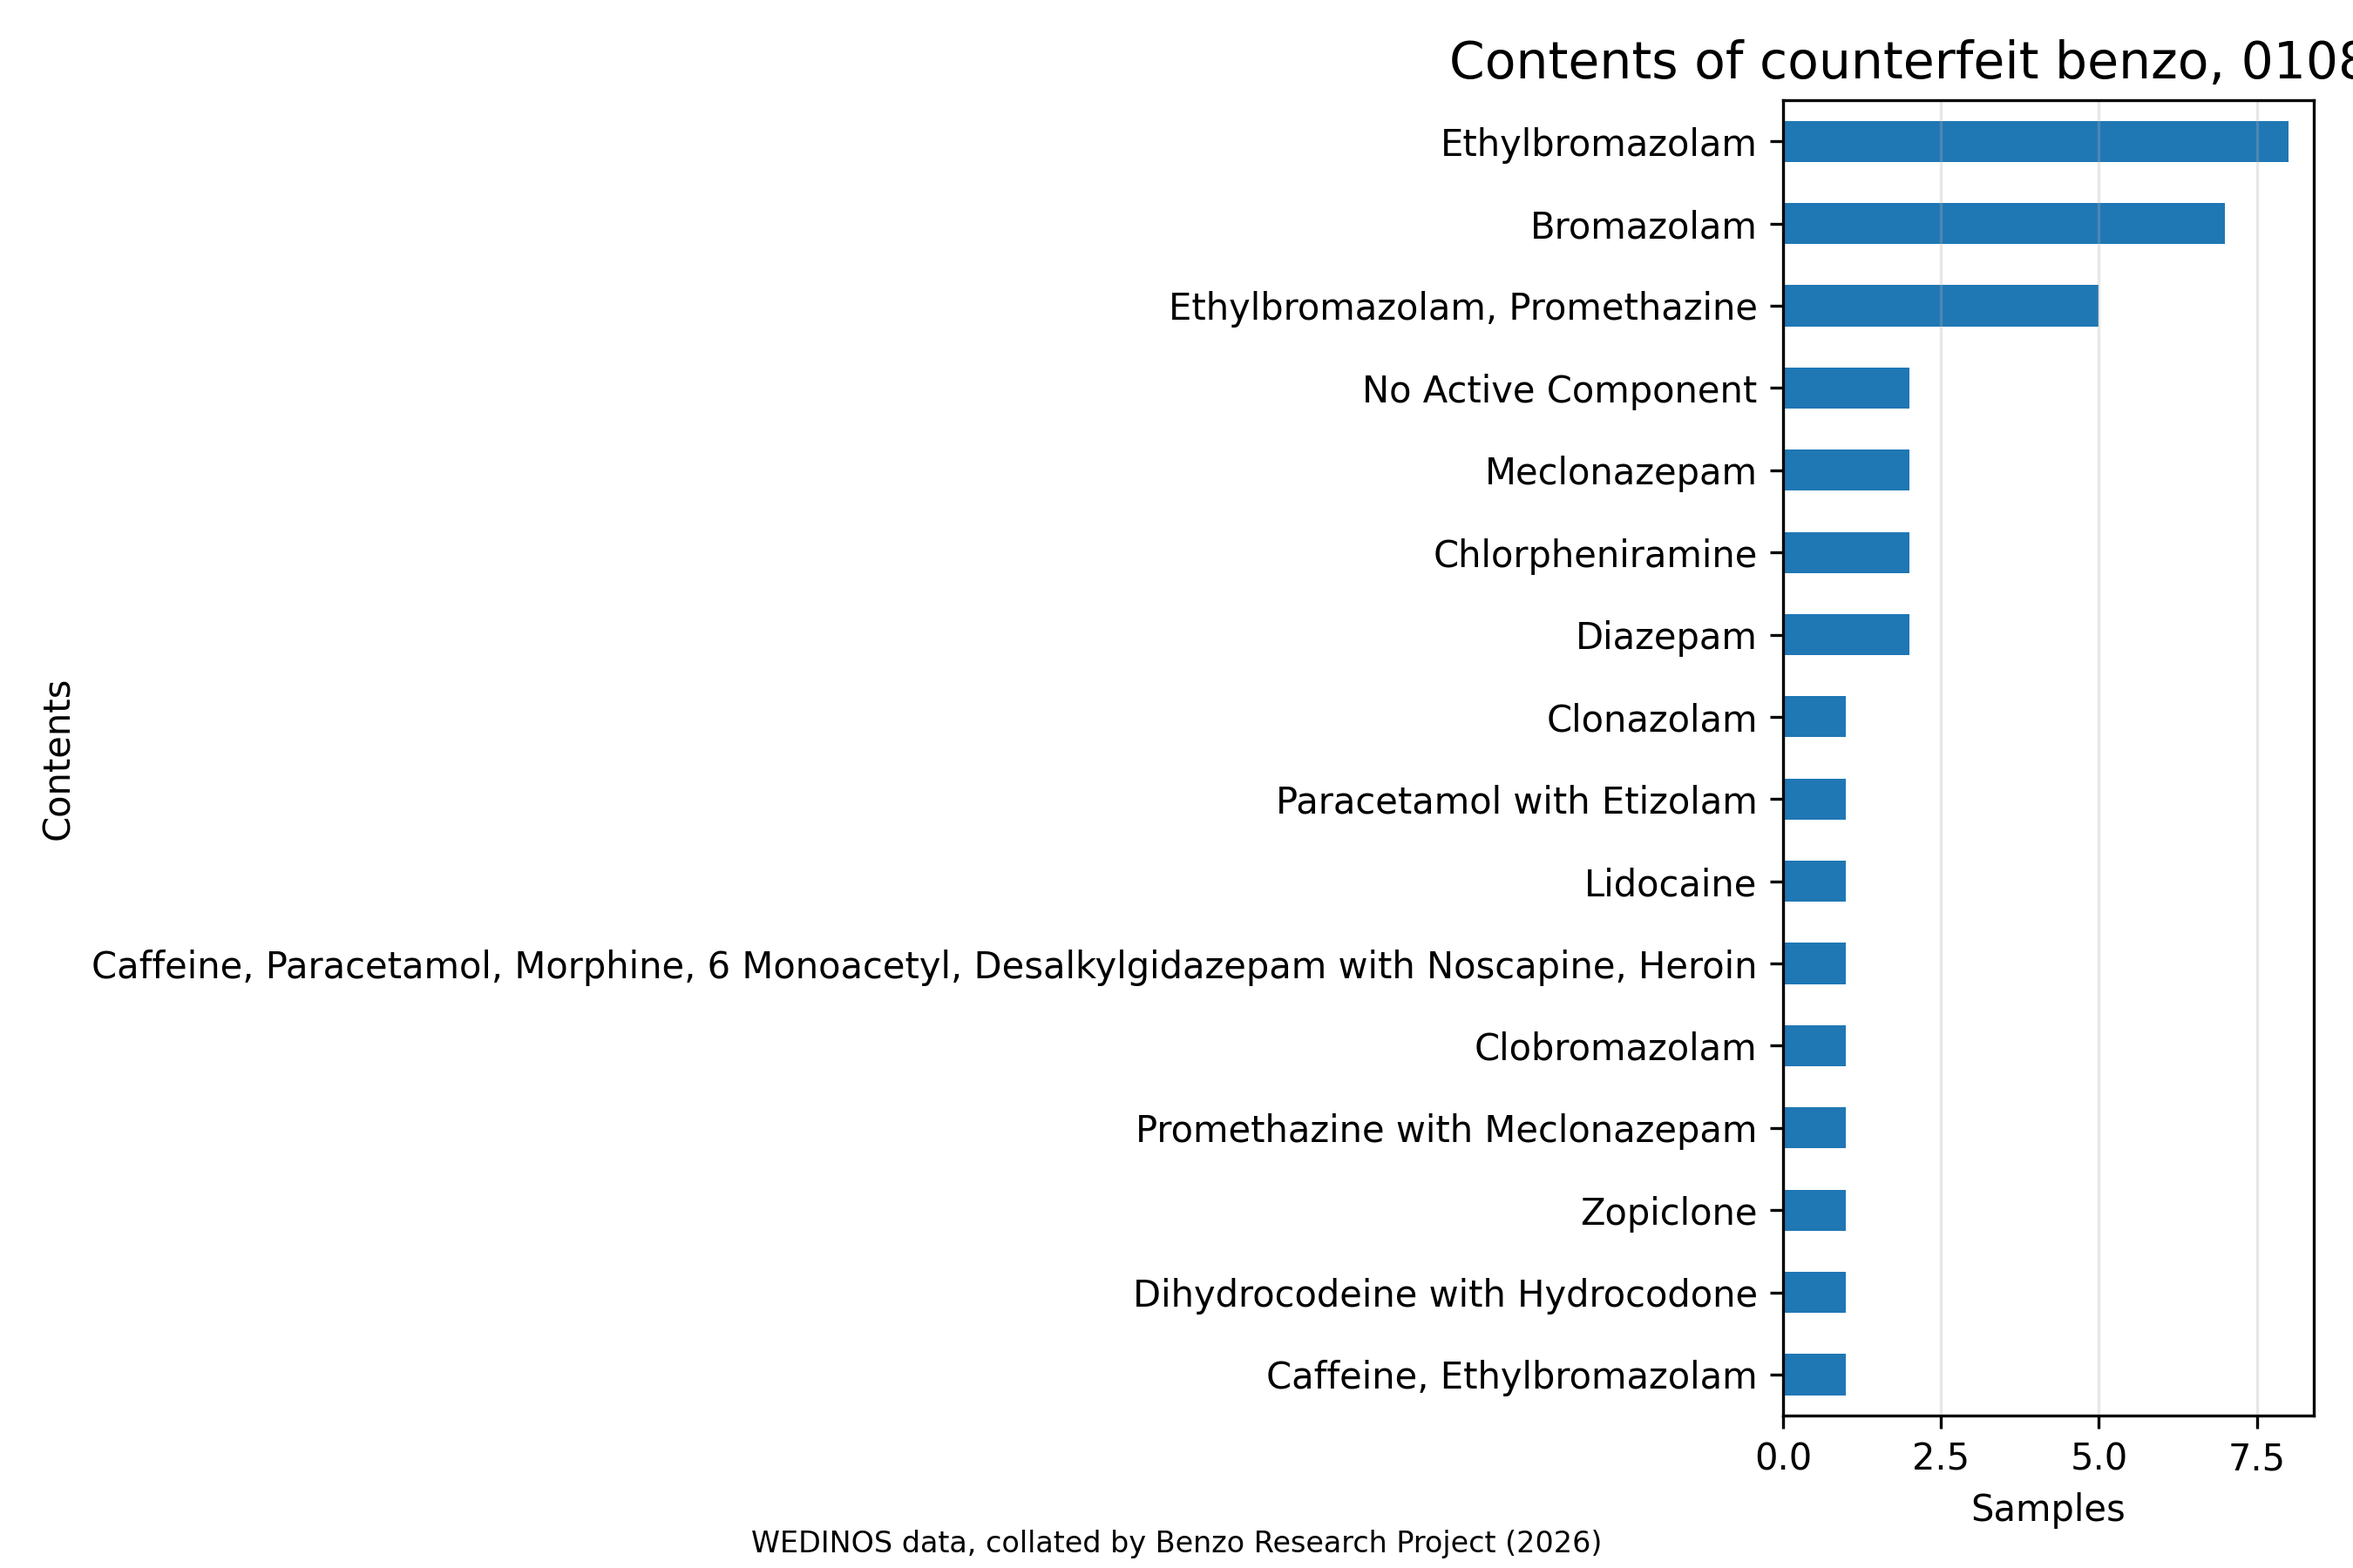
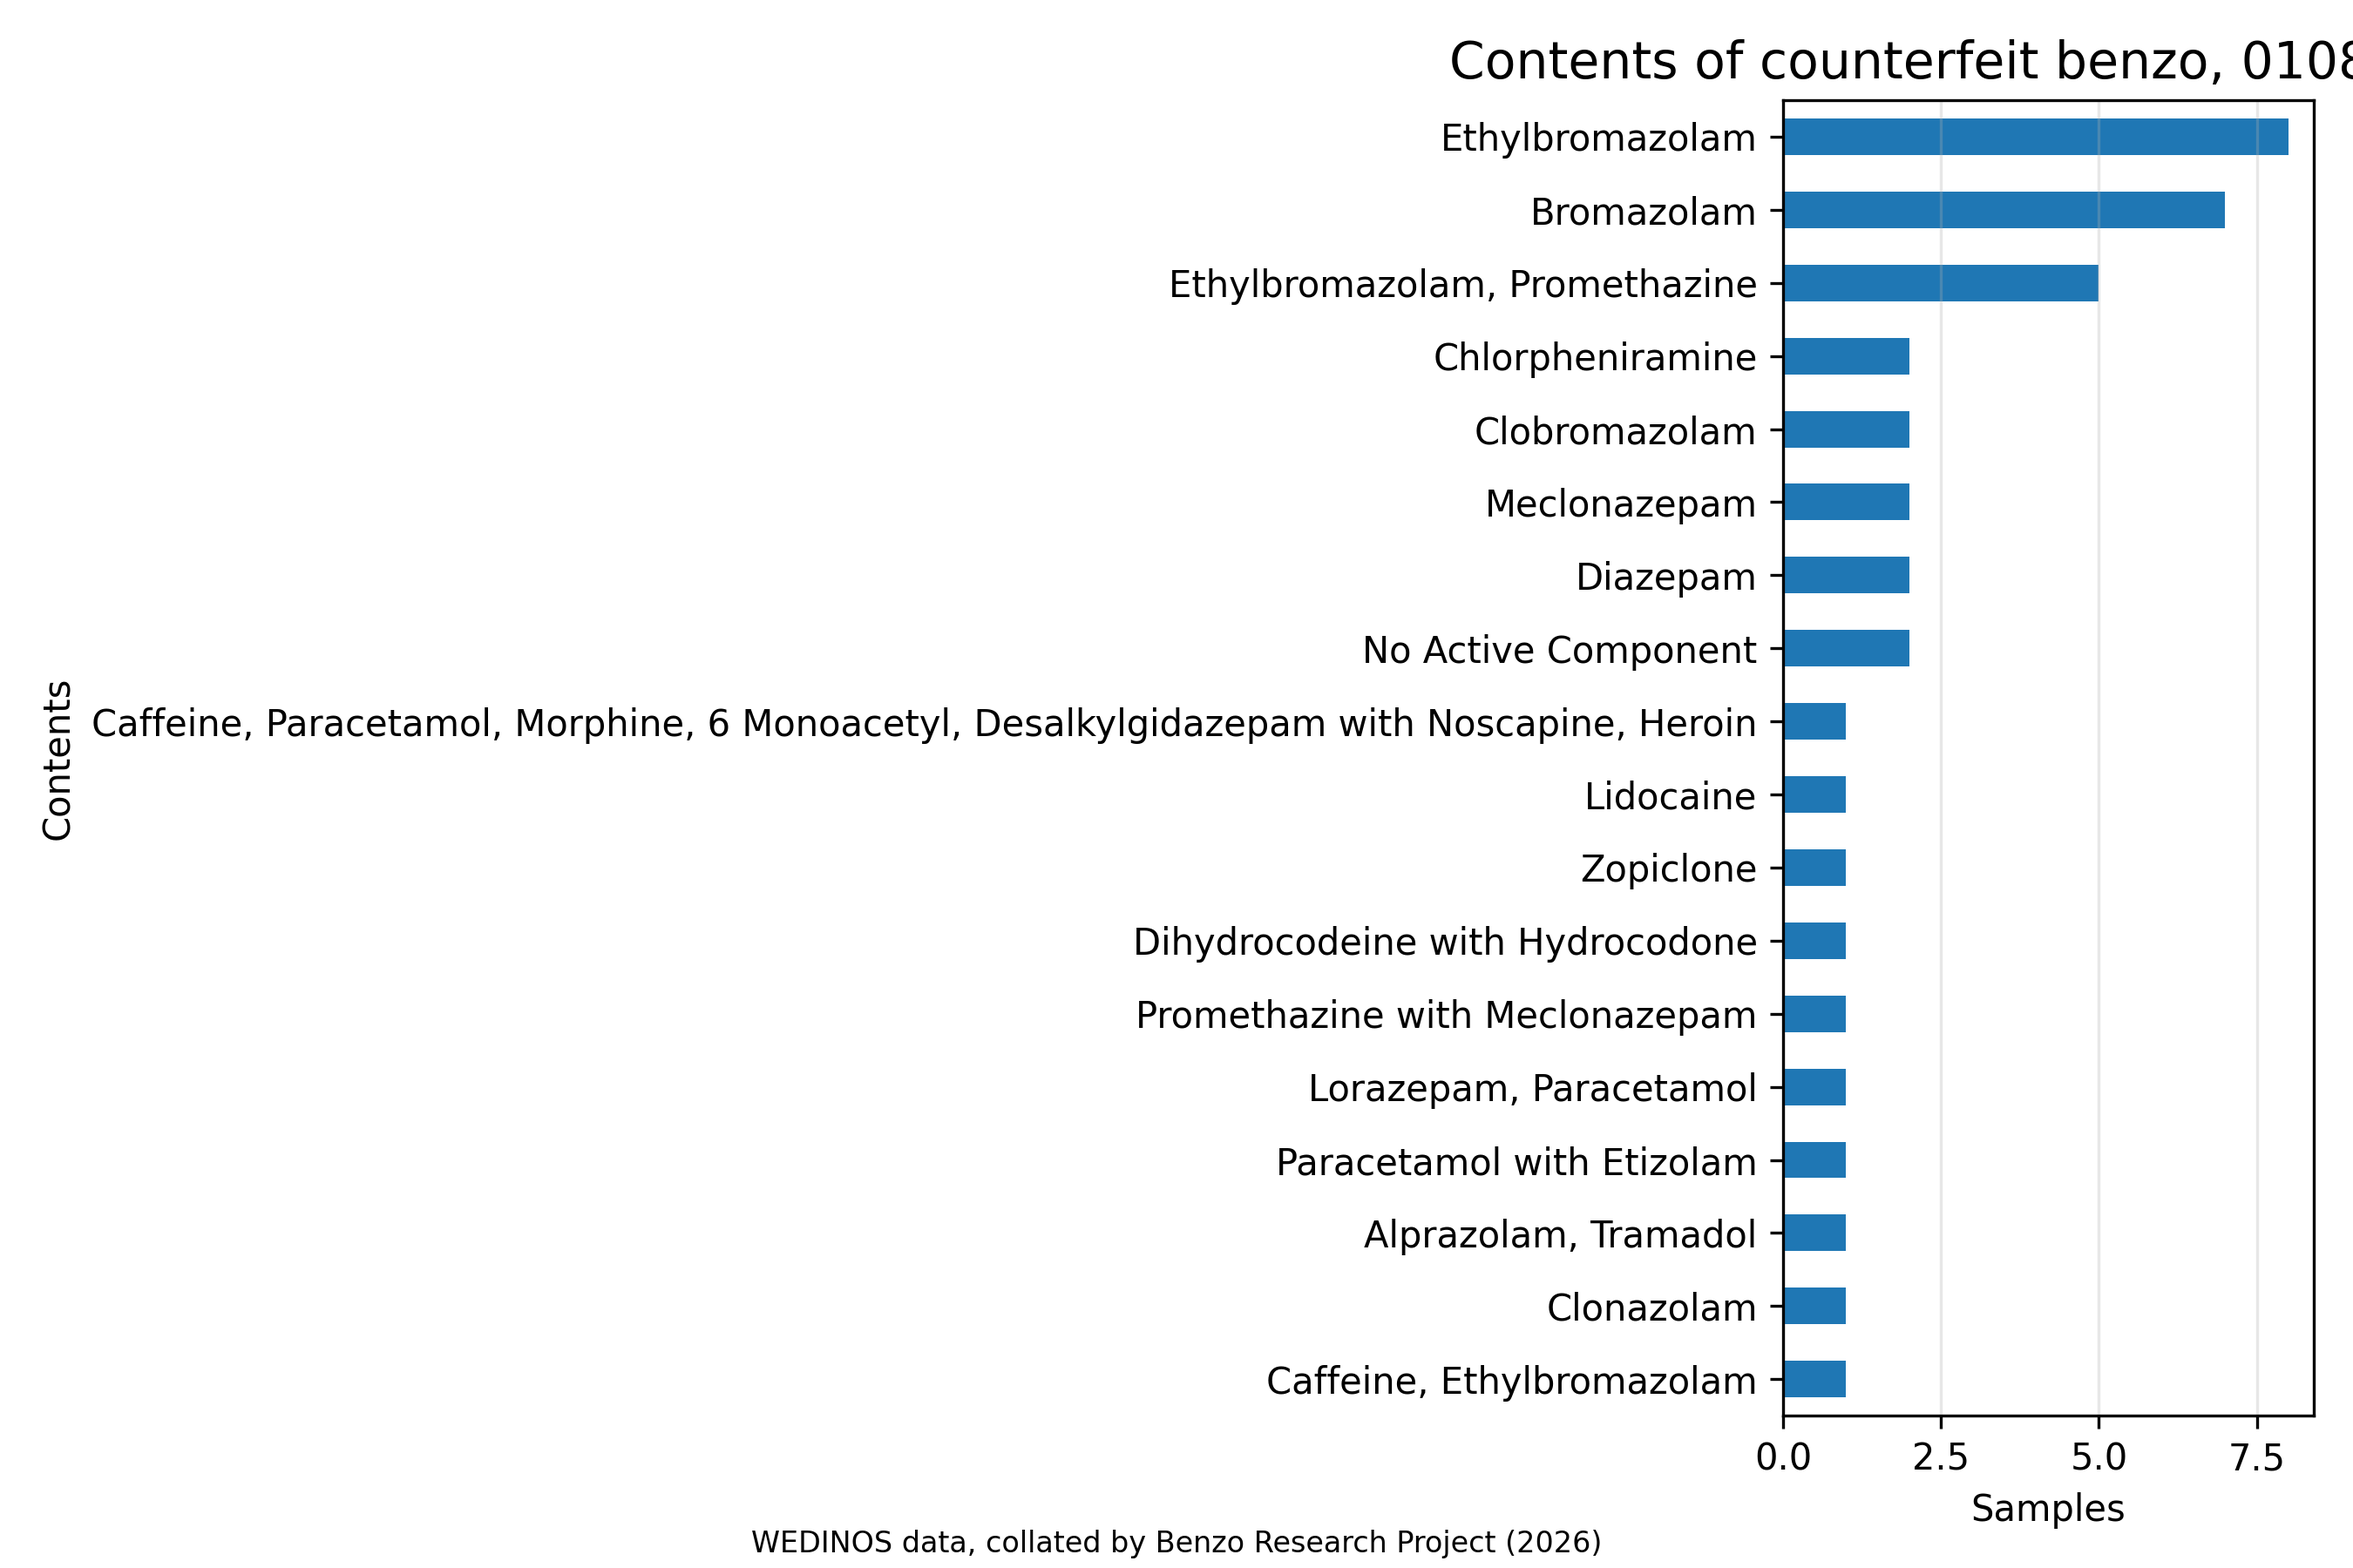
Minor fix to mis-sale classification logic to ensure certain missed analogues are captured (e.g. clobromazolam sold as bromazolam is marked as mis-sold).

Changed region(s): [[0.0311, 0.0622, 0.9644, 0.4667], [0.0311, 0.4978, 0.8089, 0.8711], [0.5289, 0.8711, 0.7467, 0.9022]]

diff --git a/counterfeits.py b/counterfeits.py
@@ -46,7 +46,7 @@ def checkRowStatus(row, intent, debug=False):
 
         try: # try-except to avoid errors with missing testing data
             # checking if sample contents match intent/label and there are no other minor components
-            if ((major_str in intent_label) or (str.lower(row['intent']) in major_str) or (str.lower(row['label']) in major_str)) and ((minor_str=='') or ((major_str==minor_str) and major_str!='')):
+            if ((major_str in intent_label) or (str.lower(row['intent']) == major_str) or (str.lower(row['label']) == major_str)) and ((minor_str=='') or ((major_str==minor_str) and major_str!='')):
                 status='not counterfeit'
             elif ('unable to identify' in major_str):
                 status='inconclusive'
@@ -106,7 +106,7 @@ def checkRowStatus(row, intent, debug=False):
                     status='counterfeit'
             elif any(substring in intent for substring in ['opioid','dihydrocodeine']) and any(substring in intent_label for substring in substring_dict.get('dihydrocodeine',[])):
                 if 'promethazine' in intent_label:
-                    if all(substring in major_str for substring in ['promethazine', 'dihydrocodeine']) or (major_minor == 'promethazine, dihydrocodeine') or(major_minor == 'dihydrocodeine, promethazine'):
+                    if all(substring in major_str for substring in ['promethazine', 'dihydrocodeine']) or (major_minor == 'promethazine dihydrocodeine') or(major_minor == 'dihydrocodeine promethazine'):
                         status='not counterfeit'
                     else:
                         status='counterfeit'
@@ -116,12 +116,12 @@ def checkRowStatus(row, intent, debug=False):
                     status='counterfeit'
             elif any(substring in intent for substring in ['opioid','codeine','cocodamol','zapain','solpadeine']) and any(substring in intent_label for substring in substring_dict.get('codeine',[])):
                 if 'promethazine' in intent_label:
-                    if all(substring in major_str for substring in ['promethazine', 'codeine']) or (major_minor == 'promethazine, codeine') or(major_minor == 'codeine, promethazine'):
+                    if all(substring in major_str for substring in ['promethazine', 'codeine']) or (major_minor == 'promethazine codeine') or(major_minor == 'codeine promethazine'):
                         status='not counterfeit'
                     else:
                         status='counterfeit'
                 elif any(substring in intent_label for substring in substring_dict.get('cocodamol',[])): 
-                    if all(substring in major_str for substring in ['paracetamol', 'codeine']) or (major_minor == 'codeine, paracetamol') or(major_minor == 'paracetamol, codeine'):
+                    if all(substring in major_str for substring in ['paracetamol', 'codeine']) or (major_minor == 'codeine paracetamol') or(major_minor == 'paracetamol codeine'):
                         status='not counterfeit'
                     else:
                         status='counterfeit'
@@ -136,7 +136,7 @@ def checkRowStatus(row, intent, debug=False):
                     status='counterfeit'
             elif any(substring in intent for substring in ['opioid','tapentadol']) and any(substring in intent_label for substring in substring_dict.get('tapentadol',[])):
                 if 'carisoprodol' in intent_label:
-                    if all(substring in major_str for substring in ['carisoprodol', 'tapentadol']) or (major_minor == 'tapentadol, carisoprodol') or(major_minor == 'carisoprodol, tapentadol'):
+                    if all(substring in major_str for substring in ['carisoprodol', 'tapentadol']) or (major_minor == 'tapentadol carisoprodol') or(major_minor == 'carisoprodol tapentadol'):
                         status='not counterfeit'
                     else:
                         status='counterfeit'
@@ -170,7 +170,6 @@ def checkRowStatus(row, intent, debug=False):
                     status='impure not counterfeit'
                 else:
                     status='counterfeit'
-                print(status, components_list)
             # psychedelic categories in active development
             elif intent == 'psychedelic' and any(substring in intent_label for substring in ['acid','lucy','lsd','lysergic acid diethylamide']):
                 if ('lysergic acid diethylamide' in major_str) and (minor_str==''):
